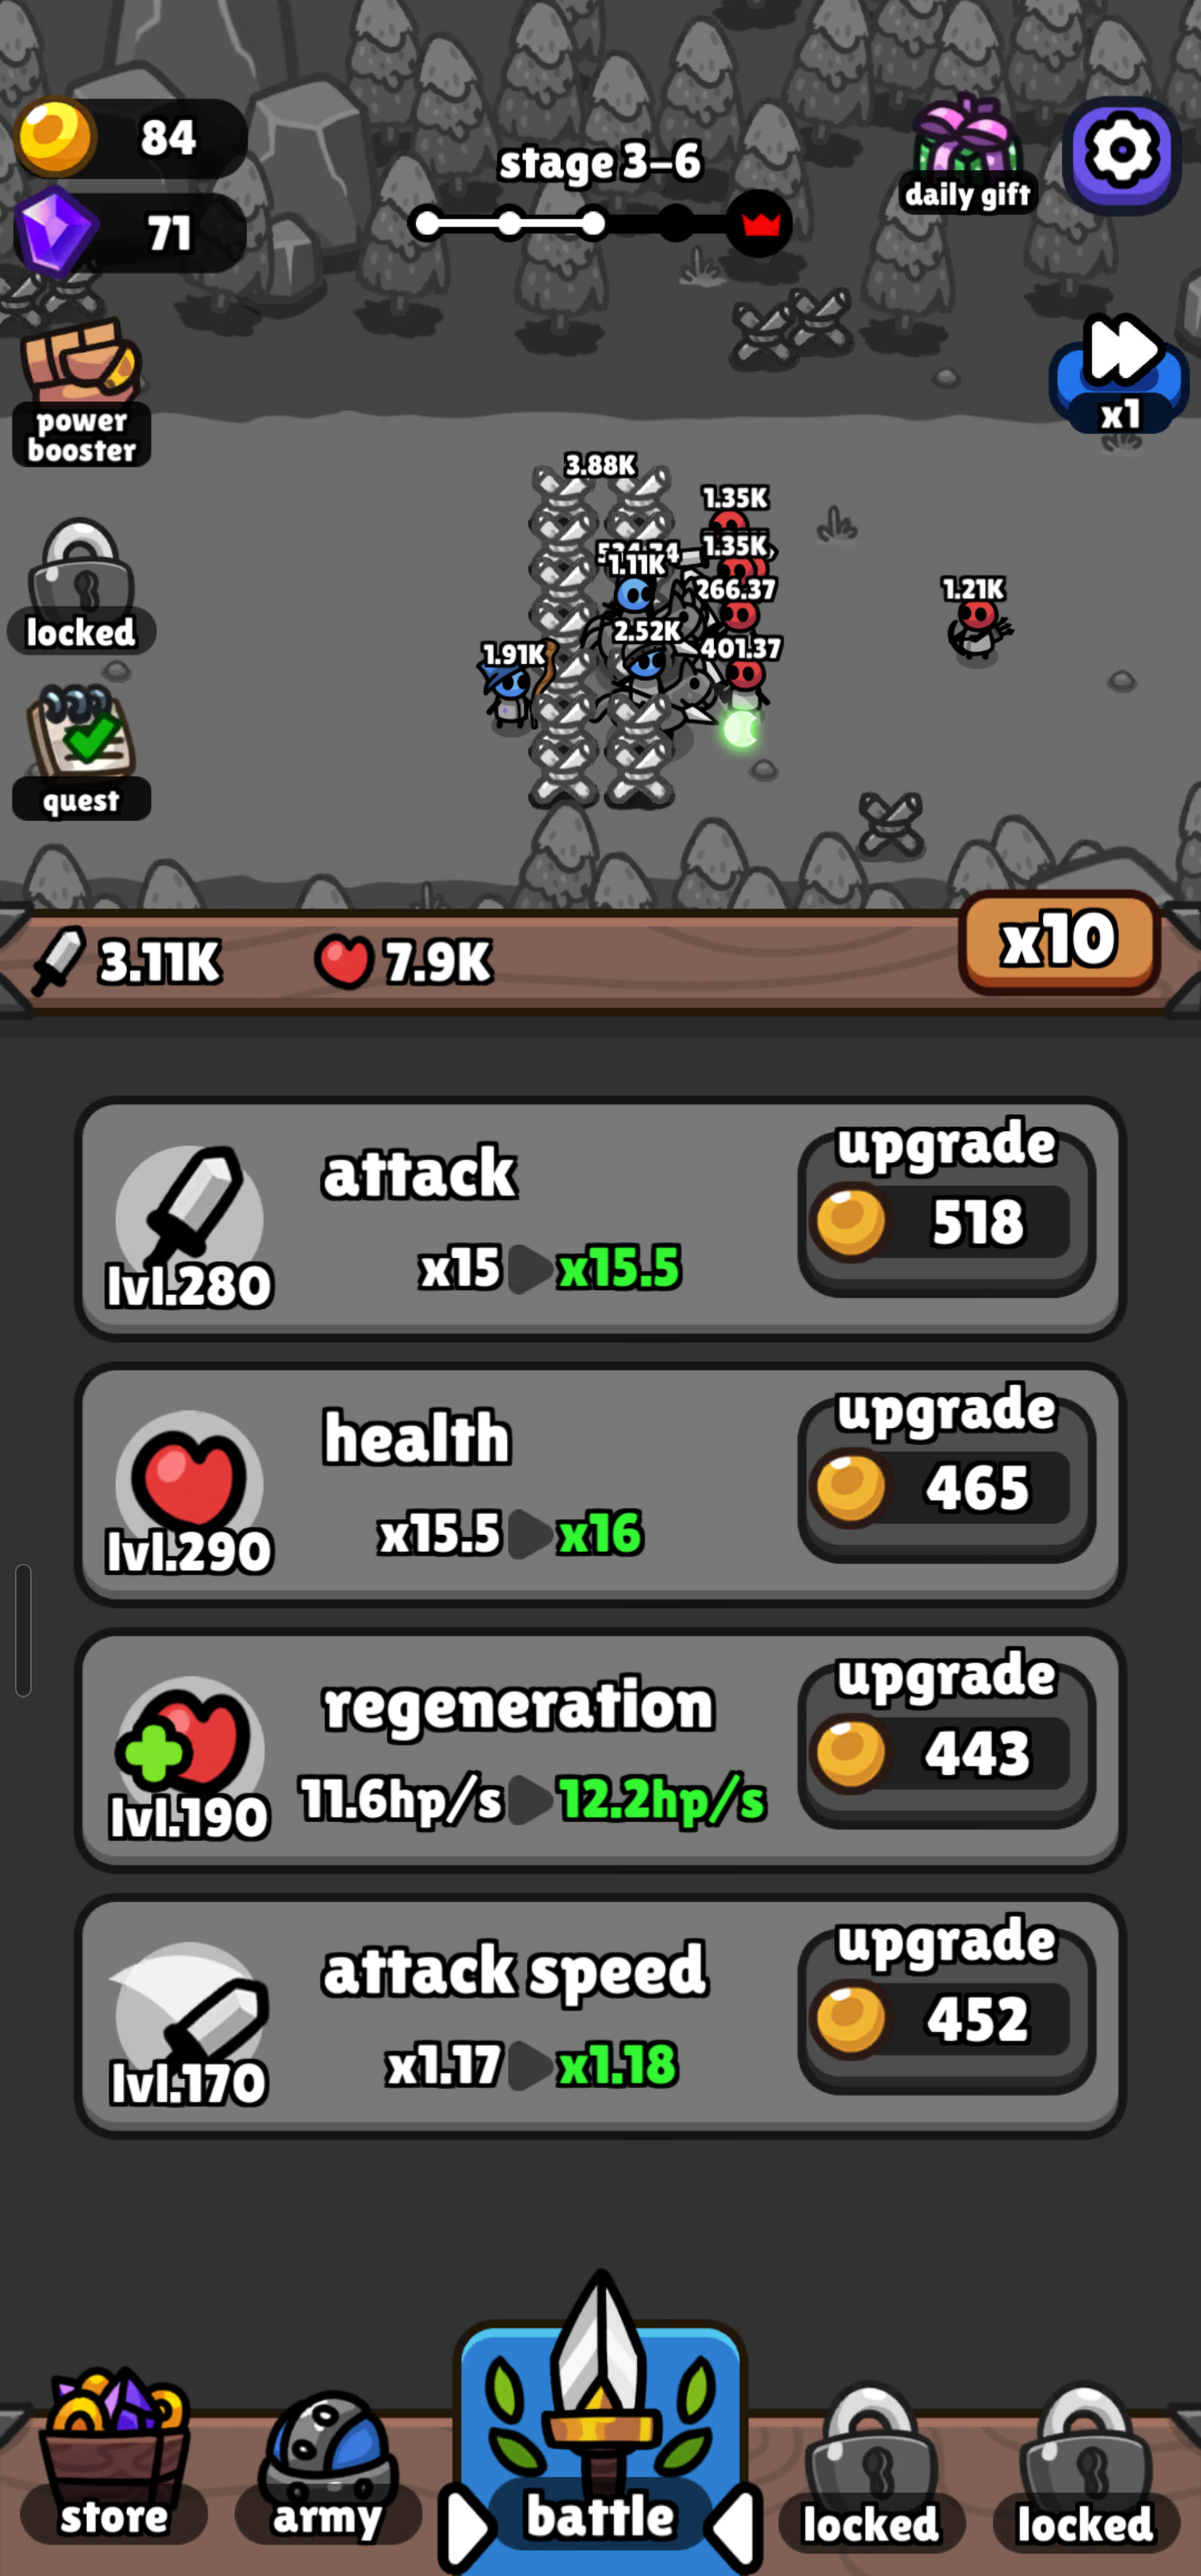
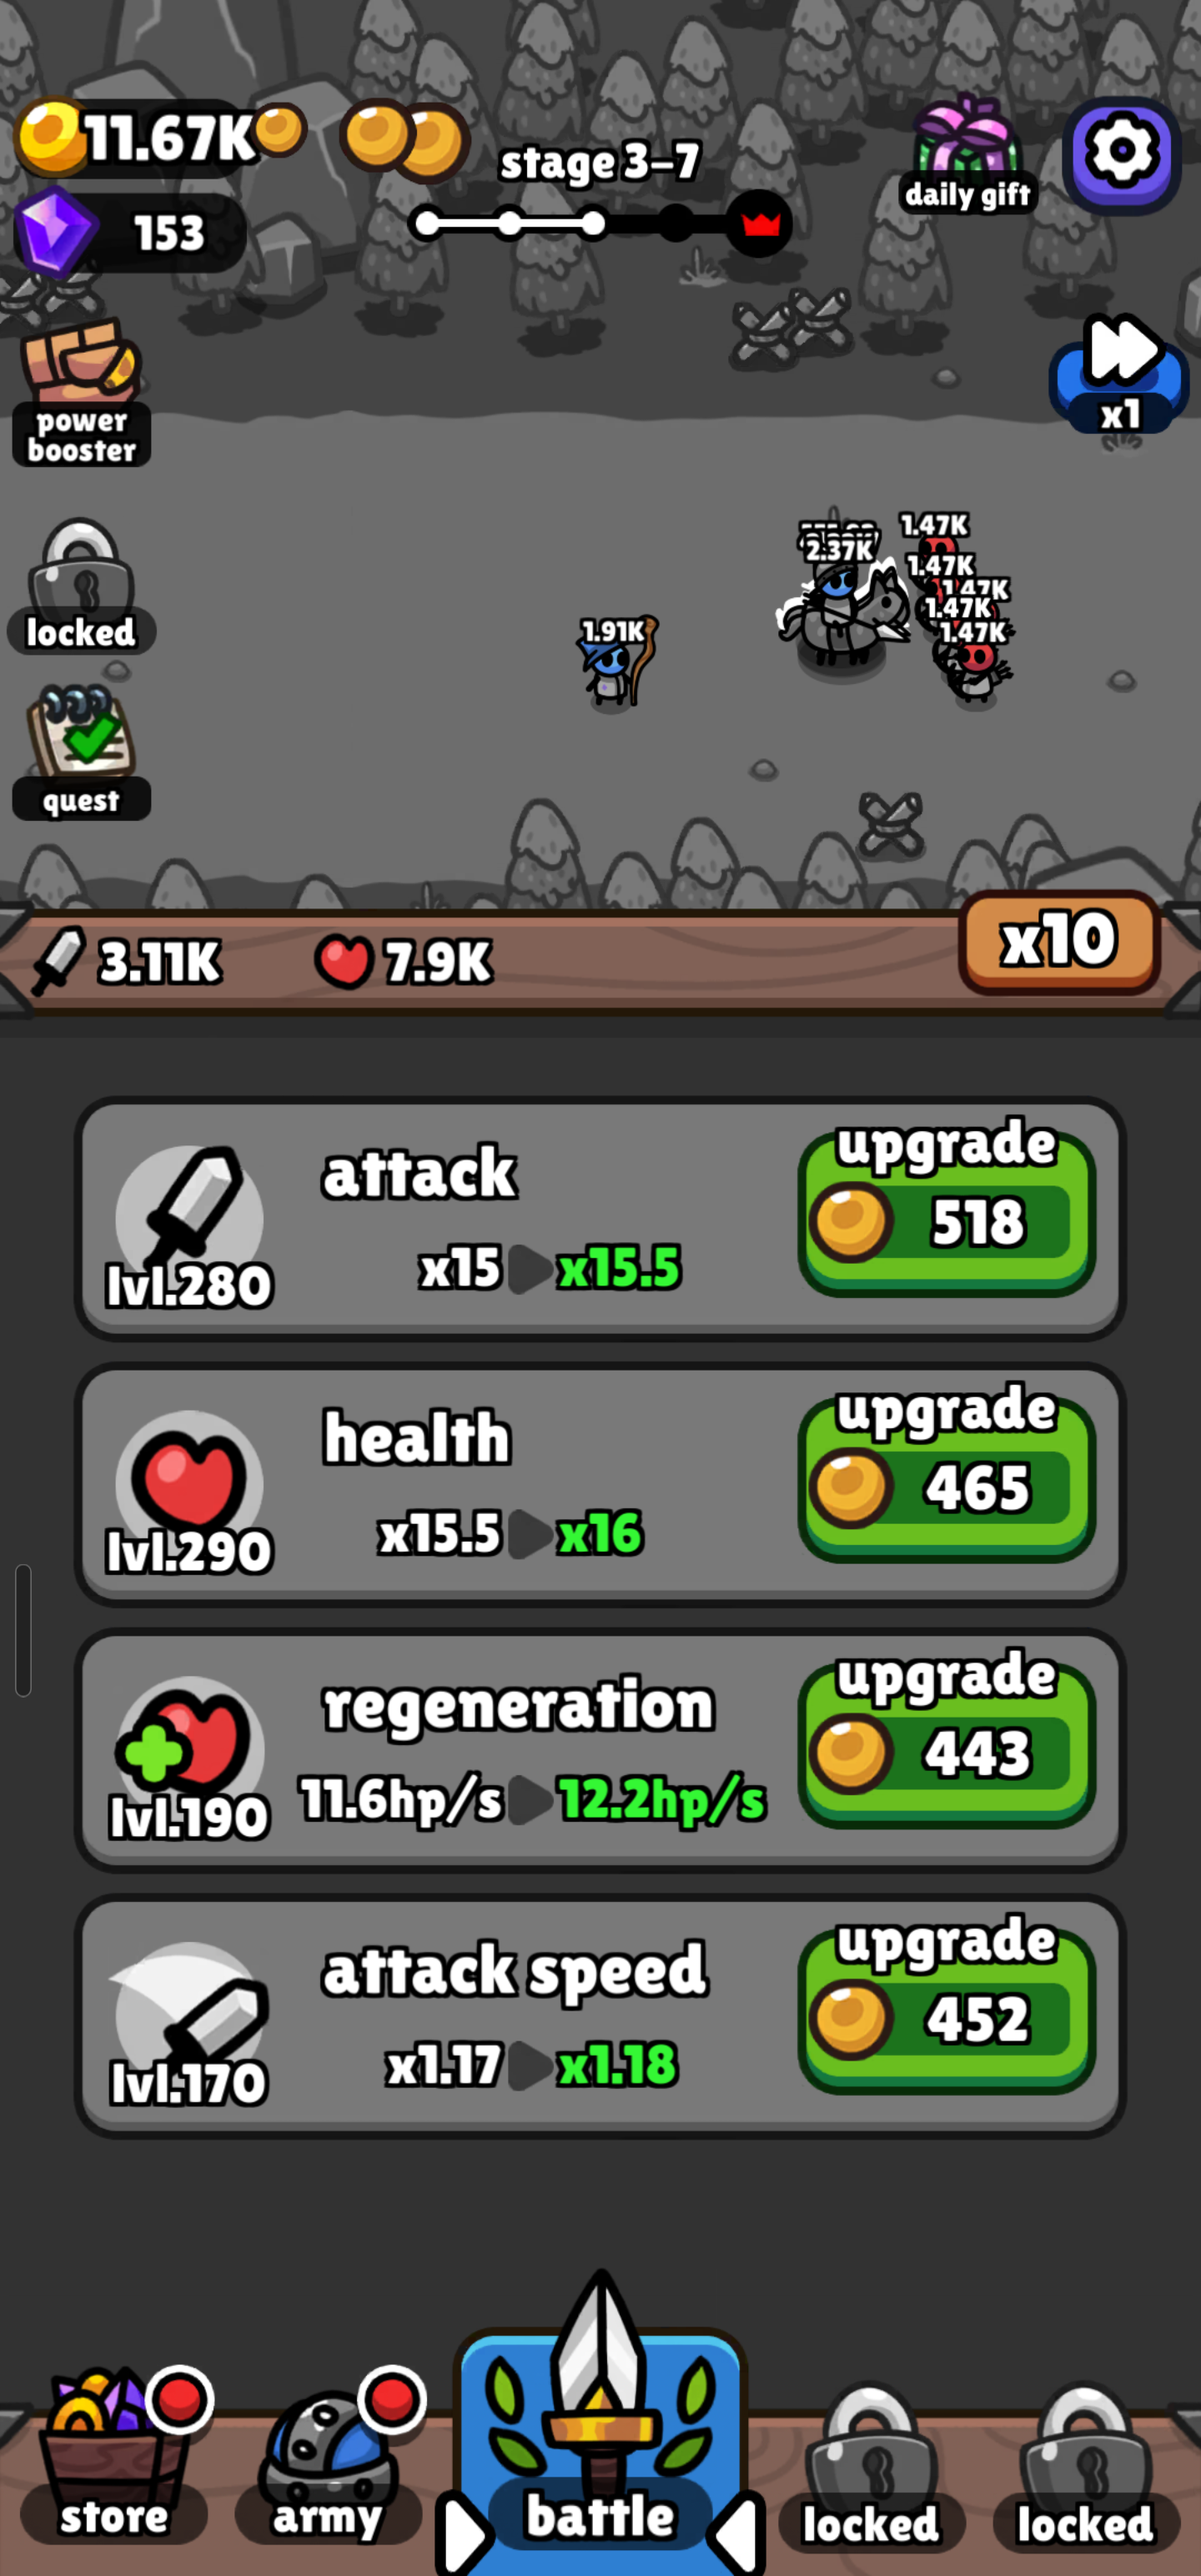
Bug fixes

diff --git a/Ad Bot/OCR_Keyword_Manager_GUI.py b/Ad Bot/OCR_Keyword_Manager_GUI.py
@@ -1,23 +1,113 @@
-import os
-import cv2
-import pytesseract
-import numpy as np
-import time
-import random
 import tkinter as tk
-from tkinter import filedialog, messagebox, ttk
-from threading import Thread
+from tkinter import ttk, filedialog, messagebox
 import json
+import os
 import subprocess
 import threading
-from PIL import ImageGrab, Image
+import time
+import cv2
+import numpy as np
+import pytesseract
+from PIL import ImageGrab, Image, ImageTk
+
+pytesseract.pytesseract.tesseract_cmd = r"C:\Program Files\Tesseract-OCR\tesseract.exe"
 
 # OCR and PNG matching settings
 ocr_keywords = []
 template_paths = []
 running = False
 
-# Save JSON profiles
+
+def get_phone_screen():
+    os.system("adb exec-out screencap -p > screen.png")
+    try:
+        return Image.open("screen.png")
+    except Exception as e:
+        print(f"[!] Failed to open screen.png: {e}")
+        return None
+
+def update_preview():
+    try:
+        screen = get_phone_screen()
+        resized = screen.resize((480, 960)) # change to resize
+        preview_img = ImageTk.PhotoImage(resized)
+        preview_label.config(image=preview_img)
+        preview_label.image = preview_img
+    except Exception as e:
+        print(f"Error updating preview: {e}")
+        
+# --- Capture and Processing Functions ---
+def capture_screen():
+    img = get_phone_screen()
+    try:
+        screen = cv2.cvtColor(np.array(img), cv2.COLOR_RGB2BGR)
+    except Exception as e:
+        print(f"[!] Failed to convery screenshot to BGR: {e}")
+        return None
+    try:
+        # Show preview in the GUI
+        img_tk = ImageTk.PhotoImage(Image.fromarray(screen).resize((300, 200)))
+        preview_label.imgtk = img_tk # Prevents garbage collection
+        preview_label.configure(image=img_tk)
+        return screen
+    except Exception as e:
+        print(f"[!] Failed to update preview: {e}")
+    return screen
+
+def match_templates(screen):
+    for path in template_paths:
+        if not os.path.exists(path):
+            continue
+        template = cv2.imread(path, 0)
+        gray = cv2.cvtColor(screen, cv2.COLOR_BGR2GRAY)
+        result = cv2.matchTemplate(gray, template, cv2.TM_CCOEFF_NORMED)
+        loc = np.where(result >= 0.8)
+        if np.any(result >= 0.8):
+            for pt in zip(*loc[::-1]):
+                cv2.rectangle(screen, pt, (pt[0] + template.shape[1], pt[1] + template.shape[0]), (0, 255, 0), 2)
+                print(f"Matched template: {os.path.basename(path)} at {pt}")
+    return screen
+
+def extract_text(screen):
+    gray = cv2.cvtColor(screen, cv2.COLOR_BGR2GRAY)
+    text = pytesseract.image_to_string(gray)
+    return text
+
+# --- Bot Logic ---
+def run_bot():
+    global running
+    running = True
+    def task():
+        while running:
+            screen = capture_screen()
+            if screen is None:
+                print("[!] Screen capture failed. Retrying...")
+                time.sleep(capture_interval.get())
+                continue
+            if run_png.get():
+                screen = match_templates(screen)
+            if run_ocr.get():
+                text = extract_text(screen)
+                for word in ocr_keywords:
+                    if word.lower() in text.lower():
+                        print(f"Keyword matched: {word}")
+                        
+            preview_img = Image.fromarray(cv2.cvtColor(screen, cv2.COLOR_BGR2RGB))
+            preview_img = preview_img.resize((300,200))
+            img_tk = ImageTk.PhotoImage(preview_img)
+            preview_label.imgtk = img_tk
+            preview_label.configure(image=img_tk)
+            
+            if not background_mode.get():
+                break
+            time.sleep(capture_interval.get())
+    threading.Thread(target=task, daemon=True).start()
+
+def stop_bot():
+    global running
+    running = False
+
+# --- Save/Load Profile ---
 def save_profile():
     profile = {
         "ocr_keywords": ocr_keywords,
@@ -27,185 +117,96 @@ def save_profile():
     if file_path:
         with open(file_path, "w") as f:
             json.dump(profile, f, indent=4)
-            messagebox.showinfo("Saved", "Profile saved successfully!")
+        messagebox.showinfo("Saved", "Profile saved successfully!")
 
-# Load JSON Profiles
 def load_profile():
     global ocr_keywords, template_paths
-    file_path = filedialog.askopenfilename(filetype=[("JSON Files", "*.json")])
+    file_path = filedialog.askopenfilename(filetypes=[("JSON Files", ".json")])
     if file_path:
         with open(file_path, "r") as f:
             profile = json.load(f)
         ocr_keywords = profile.get("ocr_keywords", [])
         template_paths = profile.get("template_paths", [])
-        
+
         keyword_list.delete(0, tk.END)
         for word in ocr_keywords:
             keyword_list.insert(tk.END, word)
-            
+
         png_list.delete(0, tk.END)
         for path in template_paths:
             png_list.insert(tk.END, os.path.basename(path))
-            
+
         messagebox.showinfo("Loaded", "Profile loaded successfully!")
 
-# === Config ===
-ADB_PATH = "C:/Users/power/AppData/Local/Android/Sdk/platform-tools/adb.exe"
-CONFIDENCE_THRESHOLD = 0.9
-TAP_DELAY = 1.5
-
-# === Global State ===
-template_paths = []
-ocr_keywords = []
+# --- GUI Setup ---
 root = tk.Tk()
+root.title("OCR + PNG Bot")
+
 run_ocr = tk.BooleanVar(value=True)
 run_png = tk.BooleanVar(value=True)
-run_forever = tk.BooleanVar(value=True)
-ocr_runs = tk.IntVar(value=1)
-png_runs = tk.IntVar(value=1)
+background_mode = tk.BooleanVar(value=True)
+capture_interval = tk.DoubleVar(value=1.0)
 
-# === Core Functions ===
-def capture_screen(filename="screen.png"):
-    os.system(f"{ADB_PATH} exec-out screencap -p > {filename}")
-    return cv2.imread(filename)
+ttk.Label(root, text="OCR Keywords").pack()
+keyword_list = tk.Listbox(root)
+keyword_list.pack()
 
-def find_button_location(screen, template_path):
-    template = cv2.imread(template_path)
-    if template is None:
-        print(f"[!] Could not read template: {template_path}")
-        return None
+preview_label = tk.Label(root)
+preview_label.pack(pady=10)
 
-    result = cv2.matchTemplate(screen, template, cv2.TM_CCOEFF_NORMED)
-    _, max_val, _, max_loc = cv2.minMaxLoc(result)
-
-    print(f"→ {template_path} match confidence: {max_val:.3f}")
-    if max_val >= CONFIDENCE_THRESHOLD:
-        h, w = template.shape[:2]
-        # Add slight randomization to tapping area
-        offset_x = random.randint(-w // 6, w // 6)
-        offset_y = random.randint(-h // 6, h // 6)
-        center_x = max_loc[0] + w // 2 + offset_x
-        center_y = max_loc[1] + h // 2 + offset_y
-        return center_x, center_y
-    return None
-
-def tap(x, y):
-    print(f"👉 Tapping at ({x}, {y})")
-    os.system(f"{ADB_PATH} shell input tap {x} {y}")
-    time.sleep(TAP_DELAY)
-
-def run_bot():
-    print("🚀 Starting bot...")
-    png_counter = 0
-    ocr_counter = 0
-
-    while run_forever.get() or (png_counter < png_runs.get() or ocr_counter < ocr_runs.get()):
-        screen = capture_screen()
-
-        if run_png.get() and (run_forever.get() or png_counter < png_runs.get()):
-            for path in template_paths:
-                coords = find_button_location(screen, path)
-                if coords:
-                    tap(*coords)
-                    png_counter += 1
-                    break
-
-        if run_ocr.get() and (run_forever.get() or ocr_counter < ocr_runs.get()):
-            gray = cv2.cvtColor(screen, cv2.COLOR_BGR2GRAY)
-            text = pytesseract.image_to_string(gray).lower()
-            print(f"[OCR] Found text:\n{text}")
-            for keyword in ocr_keywords:
-                if keyword.lower() in text:
-                    print(f"[OCR] Match found for: {keyword}")
-                    # Simulate center tap (approximation)
-                    tap(screen.shape[1] // 2 + random.randint(-50, 50),
-                        screen.shape[0] // 2 + random.randint(-50, 50))
-                    ocr_counter += 1
-                    break
-
-        time.sleep(2)
-
-    print("✅ Bot finished running.")
-
-# === GUI Functions ===
-def add_png():
-    files = filedialog.askopenfilenames(filetypes=[("Image Files", "*.png;*.jpg")])
-    for file in files:
-        if file not in template_paths:
-            template_paths.append(file)
-            png_list.insert(tk.END, os.path.basename(file))
-
-def remove_selected_png():
-    selected = png_list.curselection()
-    for index in reversed(selected):
-        template_paths.pop(index)
-        png_list.delete(index)
 
 def add_keyword():
-    word = keyword_entry.get().strip()
-    if word and word not in ocr_keywords:
-        ocr_keywords.append(word)
-        keyword_list.insert(tk.END, word)
+    keyword = keyword_entry.get()
+    if keyword:
+        ocr_keywords.append(keyword)
+        keyword_list.insert(tk.END, keyword)
         keyword_entry.delete(0, tk.END)
 
-def remove_selected_keyword():
+def remove_keyword():
     selected = keyword_list.curselection()
-    for index in reversed(selected):
-        ocr_keywords.pop(index)
-        keyword_list.delete(index)
+    for i in reversed(selected):
+        del ocr_keywords[i]
+        keyword_list.delete(i)
 
-def start_threaded_bot():
-    t = Thread(target=run_bot)
-    t.daemon = True
-    t.start()
+keyword_entry = ttk.Entry(root)
+keyword_entry.pack()
+ttk.Button(root, text="Add Keyword", command=add_keyword).pack()
+ttk.Button(root, text="Remove Selected", command=remove_keyword).pack()
 
-# === GUI ===
-#root = tk.Tk()
-root.title("📱 Android Auto Tap Bot")
-root.geometry("600x500")
+ttk.Label(root, text="PNG Templates").pack()
+png_list = tk.Listbox(root)
+png_list.pack()
 
-# PNG Frame
-png_frame = ttk.LabelFrame(root, text="🖼 PNG Image Templates")
-png_frame.pack(fill="x", padx=10, pady=5)
 
-png_list = tk.Listbox(png_frame, height=5)
-png_list.pack(side="left", fill="x", expand=True, padx=5)
-btn_frame = tk.Frame(png_frame)
-btn_frame.pack(side="right", fill="y")
-ttk.Button(btn_frame, text="Add", command=add_png).pack(fill="x", pady=2)
-ttk.Button(btn_frame, text="Remove", command=remove_selected_png).pack(fill="x", pady=2)
+def add_template():
+    paths = filedialog.askopenfilenames(filetypes=[("PNG Files", "*.png")])
+    for path in paths:
+        template_paths.append(path)
+        png_list.insert(tk.END, os.path.basename(path))
 
-# Keyword Frame
-keyword_frame = ttk.LabelFrame(root, text="🔤 OCR Keywords")
-keyword_frame.pack(fill="x", padx=10, pady=5)
+def remove_template():
+    selected = png_list.curselection()
+    for i in reversed(selected):
+        del template_paths[i]
+        png_list.delete(i)
 
-keyword_list = tk.Listbox(keyword_frame, height=5)
-keyword_list.pack(side="left", fill="x", expand=True, padx=5)
-key_btn_frame = tk.Frame(keyword_frame)
-key_btn_frame.pack(side="right", fill="y")
-keyword_entry = ttk.Entry(key_btn_frame)
-keyword_entry.pack(fill="x", pady=2)
-ttk.Button(key_btn_frame, text="Add", command=add_keyword).pack(fill="x", pady=2)
-ttk.Button(key_btn_frame, text="Remove", command=remove_selected_keyword).pack(fill="x", pady=2)
+ttk.Button(root, text="Add Template(s)", command=add_template).pack()
+ttk.Button(root, text="Remove Selected", command=remove_template).pack()
 
-# Settings Frame
-settings_frame = ttk.LabelFrame(root, text="⚙ Settings")
-settings_frame.pack(fill="x", padx=10, pady=5)
+# --- Options ---
+ttk.Checkbutton(root, text="Run OCR", variable=run_ocr).pack()
+ttk.Checkbutton(root, text="Run PNG Match", variable=run_png).pack()
+ttk.Checkbutton(root, text="Background Mode", variable=background_mode).pack()
 
-ttk.Checkbutton(settings_frame, text="Enable PNG Scanning", variable=run_png).pack(anchor="w")
-ttk.Checkbutton(settings_frame, text="Enable OCR Scanning", variable=run_ocr).pack(anchor="w")
-ttk.Checkbutton(settings_frame, text="Run Forever", variable=run_forever).pack(anchor="w")
+interval_frame = ttk.Frame(root)
+interval_frame.pack()
+ttk.Label(interval_frame, text="Capture Interval (s)").pack(side="left")
+ttk.Entry(interval_frame, textvariable=capture_interval, width=5).pack(side="left")
 
-ocr_spin = ttk.Spinbox(settings_frame, from_=1, to=1000, textvariable=ocr_runs, width=5)
-png_spin = ttk.Spinbox(settings_frame, from_=1, to=1000, textvariable=png_runs, width=5)
-ttk.Label(settings_frame, text="OCR Run Count").pack(anchor="w")
-ocr_spin.pack(anchor="w")
-ttk.Label(settings_frame, text="PNG Run Count").pack(anchor="w")
-png_spin.pack(anchor="w")
+# --- Buttons ---
+ttk.Button(root, text="▶ Start Bot", command=run_bot).pack(pady=5)
+ttk.Button(root, text="⏹ Stop Bot", command=stop_bot).pack()
 
-# Start Button
-ttk.Button(root, text="🚀 Start Bot", command=start_threaded_bot).pack(pady=15)
-# Save/Load Profile Buttons
 profile_frame = ttk.Frame(root)
 profile_frame.pack(pady=5)
 ttk.Button(profile_frame, text="💾 Save Profile", command=save_profile).pack(side="left", padx=10)
